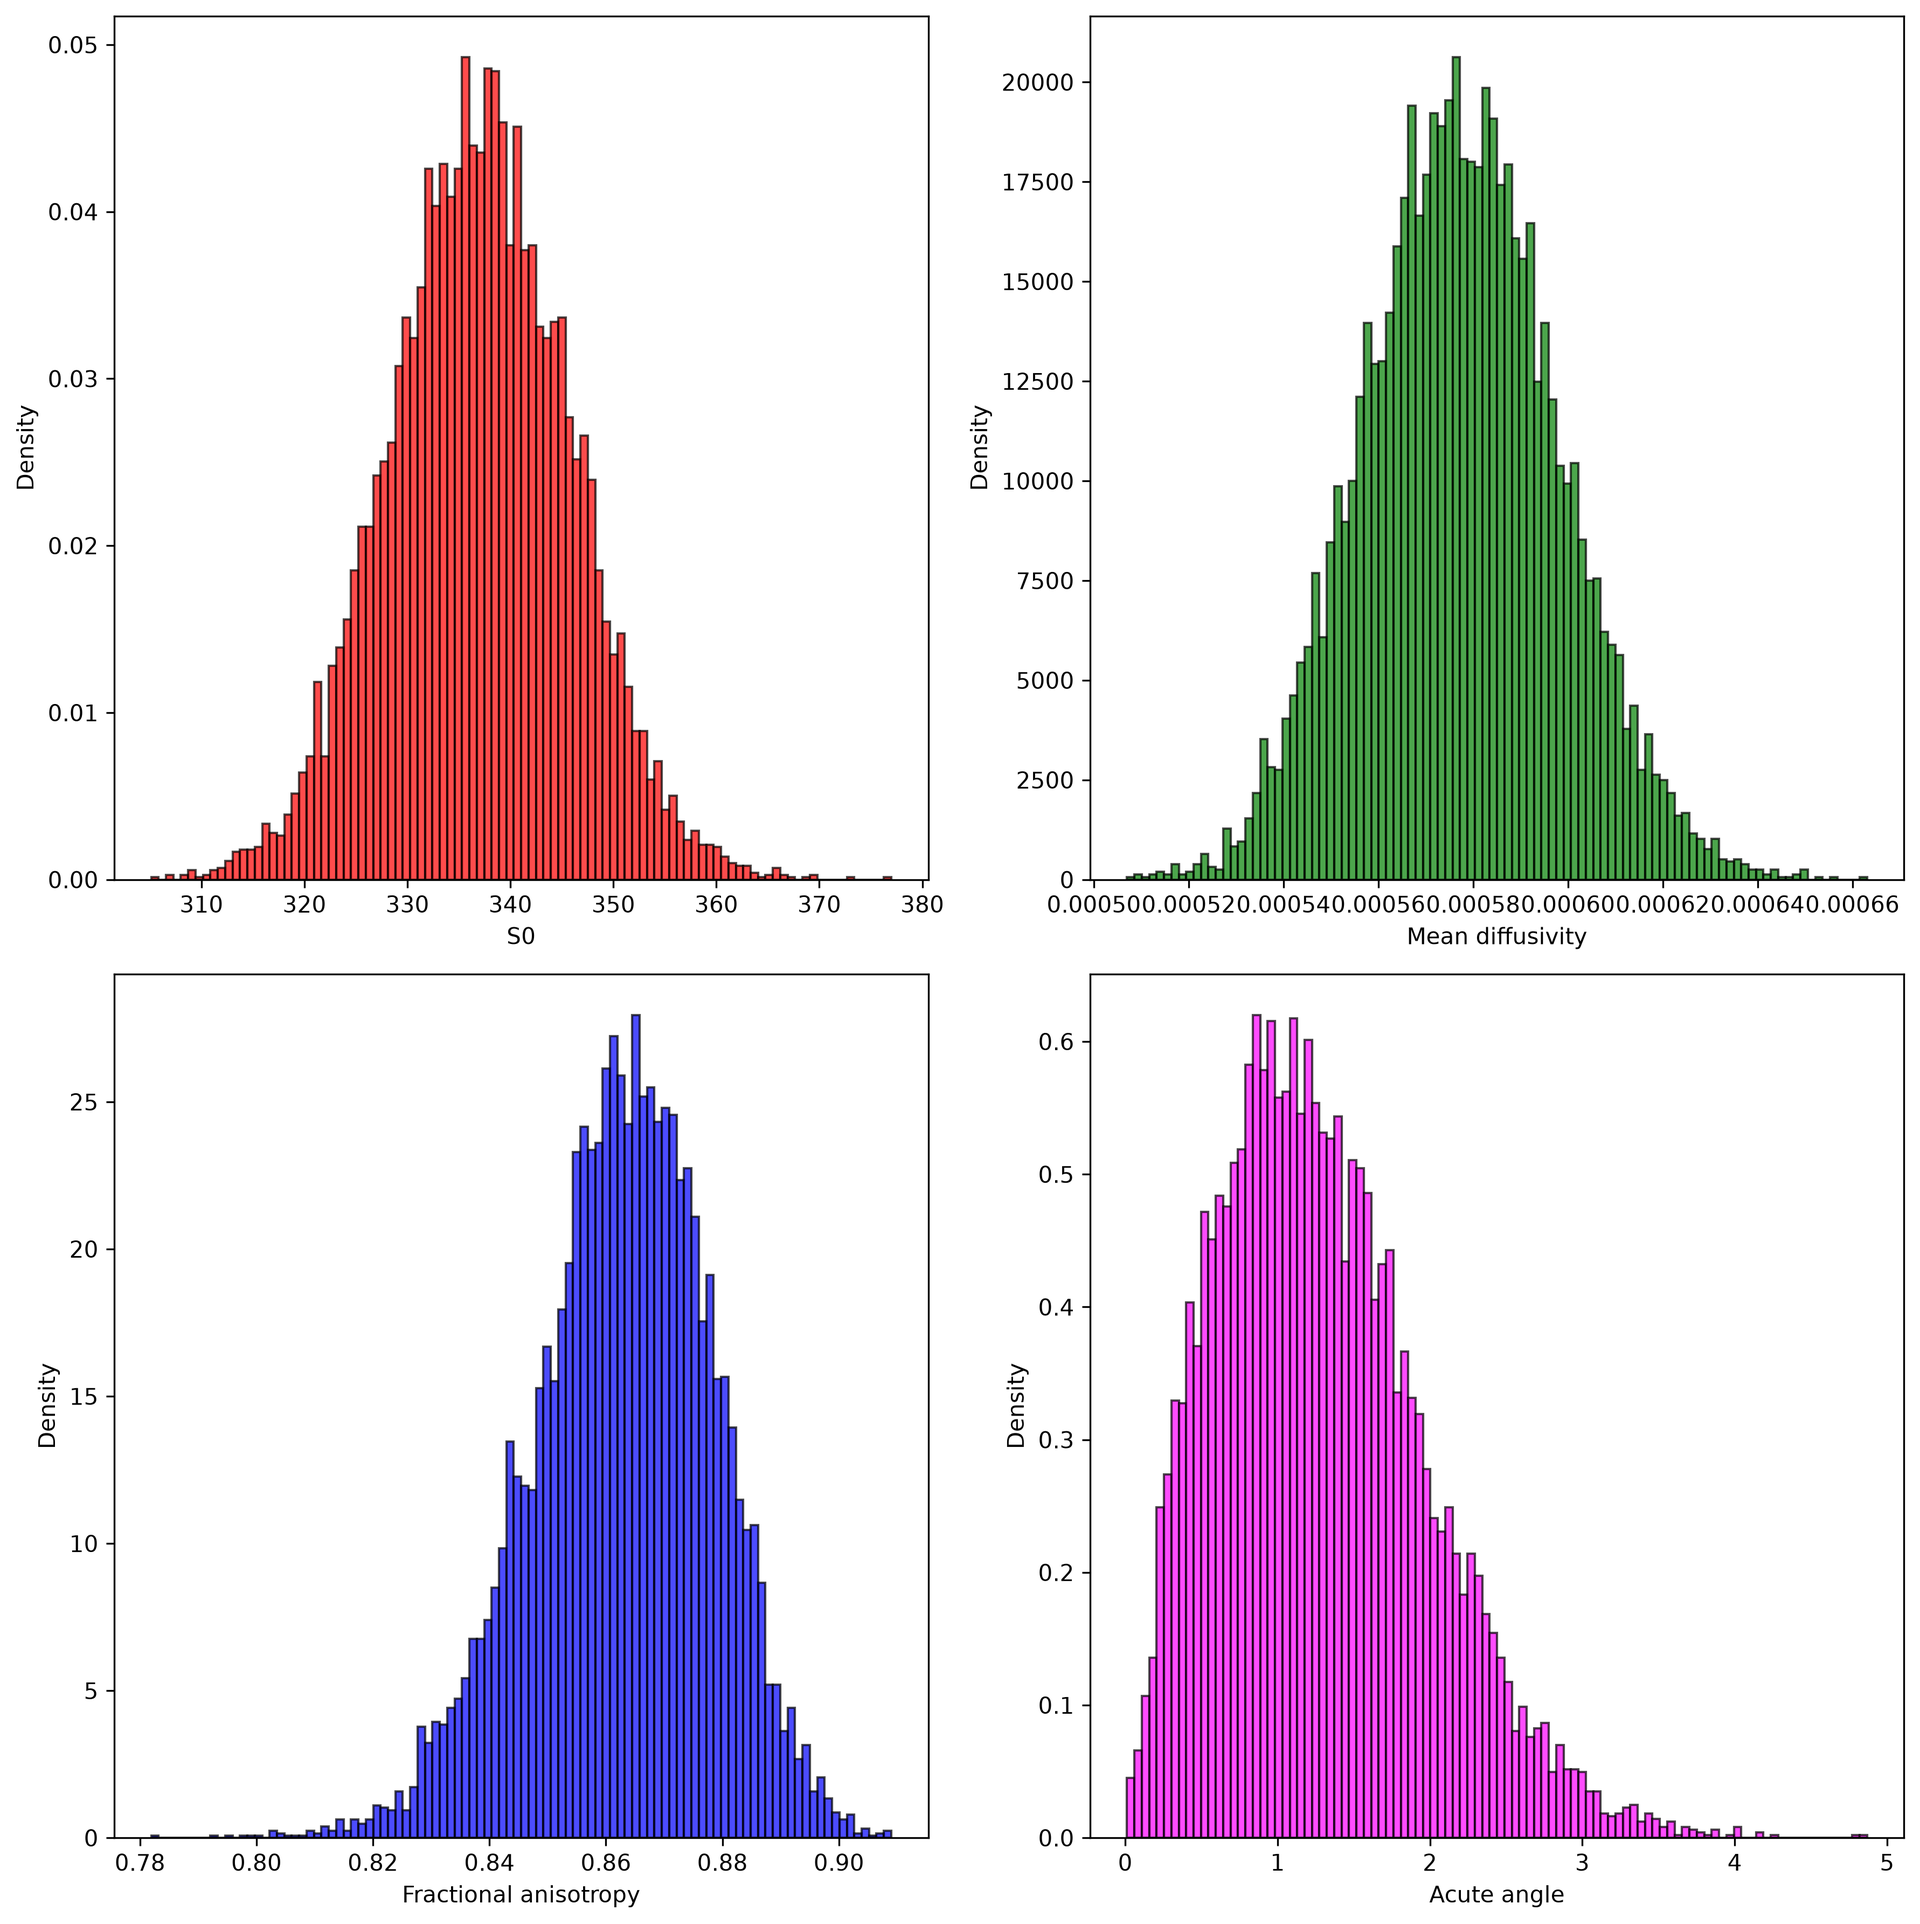
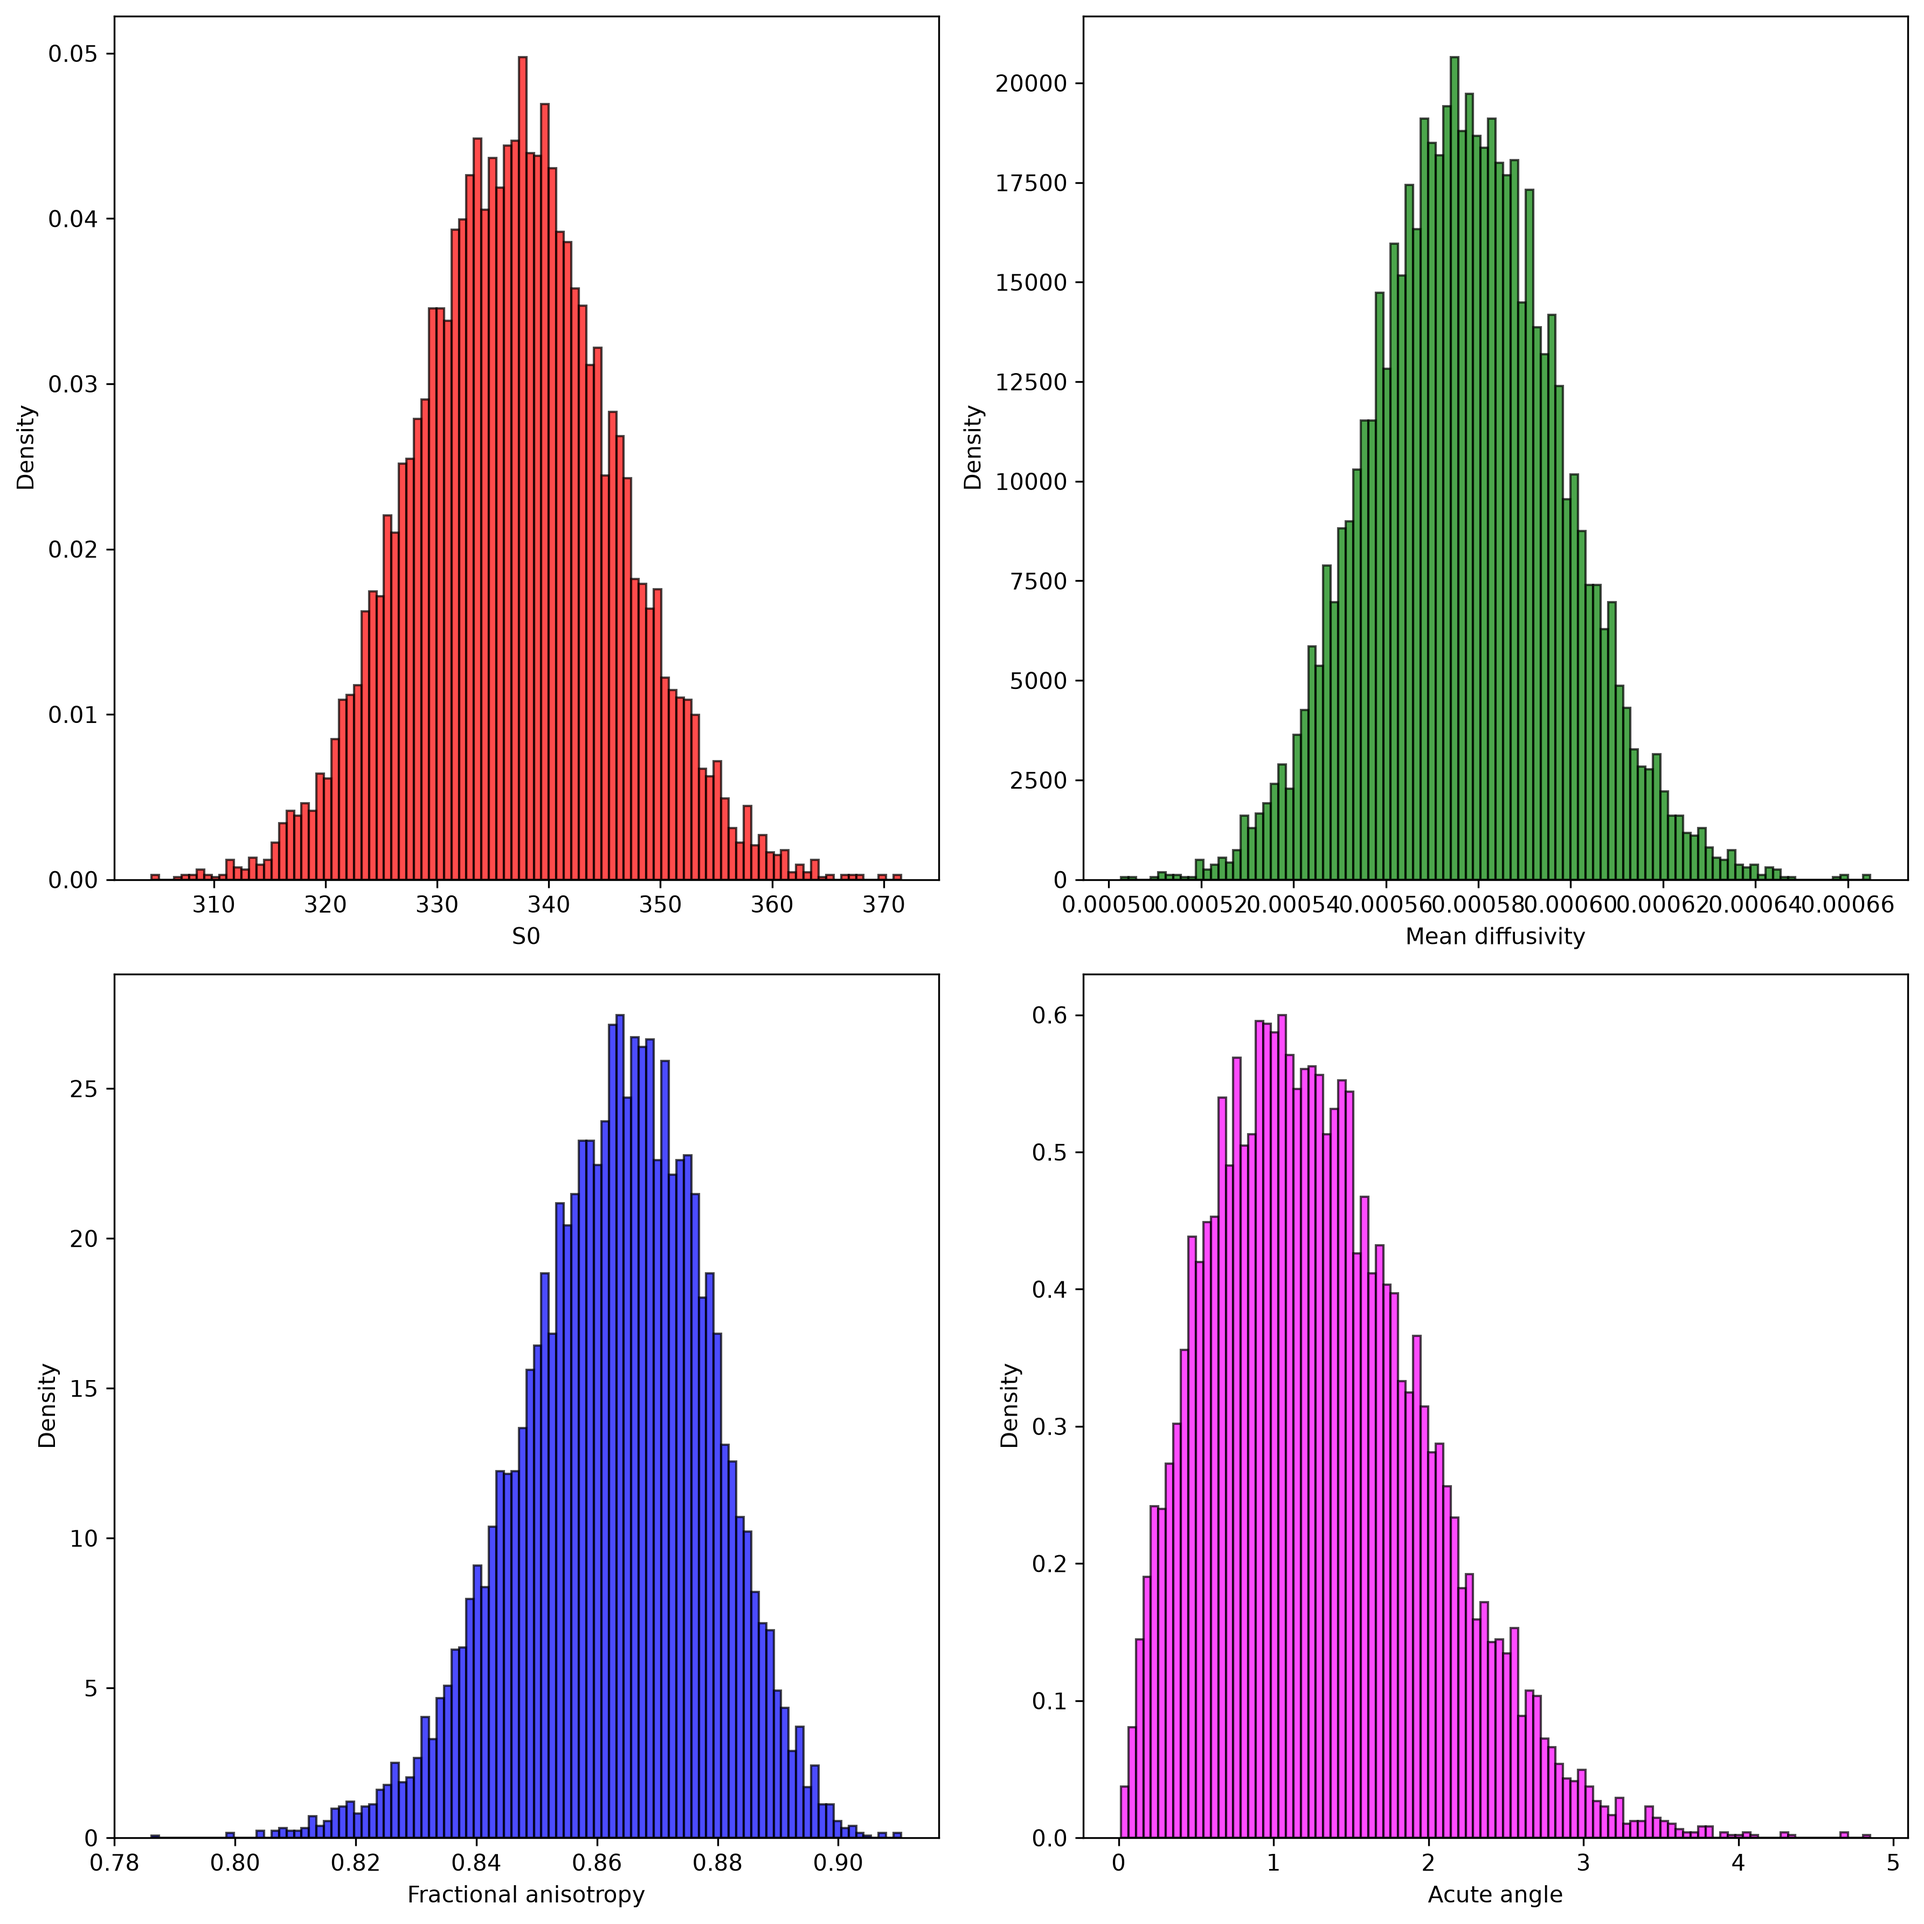
better laplace approx sampling

diff --git a/dmri_project.py b/dmri_project.py
@@ -529,14 +529,12 @@ class mvn_reparameterized:
     def __init__(self, mean, cov):
         self.mean = mean
         self.cov = cov
-        self.dim = mean.shape[0]
-        self.L = np.linalg.cholesky(cov)
     
     def rvs(self, size):
-        noise = np.random.randn(size, self.dim)
-        theta = self.mean + noise@self.L.T
-        S0_samples = np.exp(theta[:, 0])
-        D_samples = D_from_theta(theta[:, 1:])
+        # Sample from multivariate normal using reparameterization trick
+        theta_samples = multivariate_normal.rvs(mean=self.mean, cov=self.cov, size=size)
+        S0_samples = np.exp(theta_samples[:, 0])
+        D_samples = D_from_theta(theta_samples[:, 1:])
         evals_samples, evecs_samples = np.linalg.eigh(D_samples)
     
         return S0_samples, evals_samples, evecs_samples
@@ -769,7 +767,7 @@ def laplace_approximation():
     theta_hat = res.x
 
     # #Compute Hessian at theta_hat with central difference approximation
-    def hessian(f, x0, eps=1e-5):
+    def hessian(f, x0, h=1e-5):
         n = len(x0)
         hessian = np.zeros((n, n))
         f0 = f(x0)
@@ -779,21 +777,21 @@ def laplace_approximation():
                 if i == j:
                     dx = np.zeros(n)
                     # print(dx)
-                    dx[i] = eps
+                    dx[i] = h
                     # print(dx)
                     f_plus = f(x0 + dx)
                     f_minus = f(x0 - dx)
-                    hessian[i, j] = (f_plus - 2*f0 + f_minus) / (eps**2)
+                    hessian[i, j] = (f_plus - 2*f0 + f_minus) / (h**2)
                 else:
                     dxi = np.zeros(n)
                     dxj = np.zeros(n)
-                    dxi[i] = eps
-                    dxj[j] = eps
+                    dxi[i] = h
+                    dxj[j] = h
                     f_pp = f(x0 + dxi + dxj)
                     f_pm = f(x0 + dxi - dxj)
                     f_mp = f(x0 - dxi + dxj)
                     f_mm = f(x0 - dxi - dxj)
-                    hessian[i, j] = (f_pp - f_pm - f_mp + f_mm) / (4*eps**2)
+                    hessian[i, j] = (f_pp - f_pm - f_mp + f_mm) / (4*h**2)
                     hessian[j, i] = hessian[i, j]
 
         return hessian
